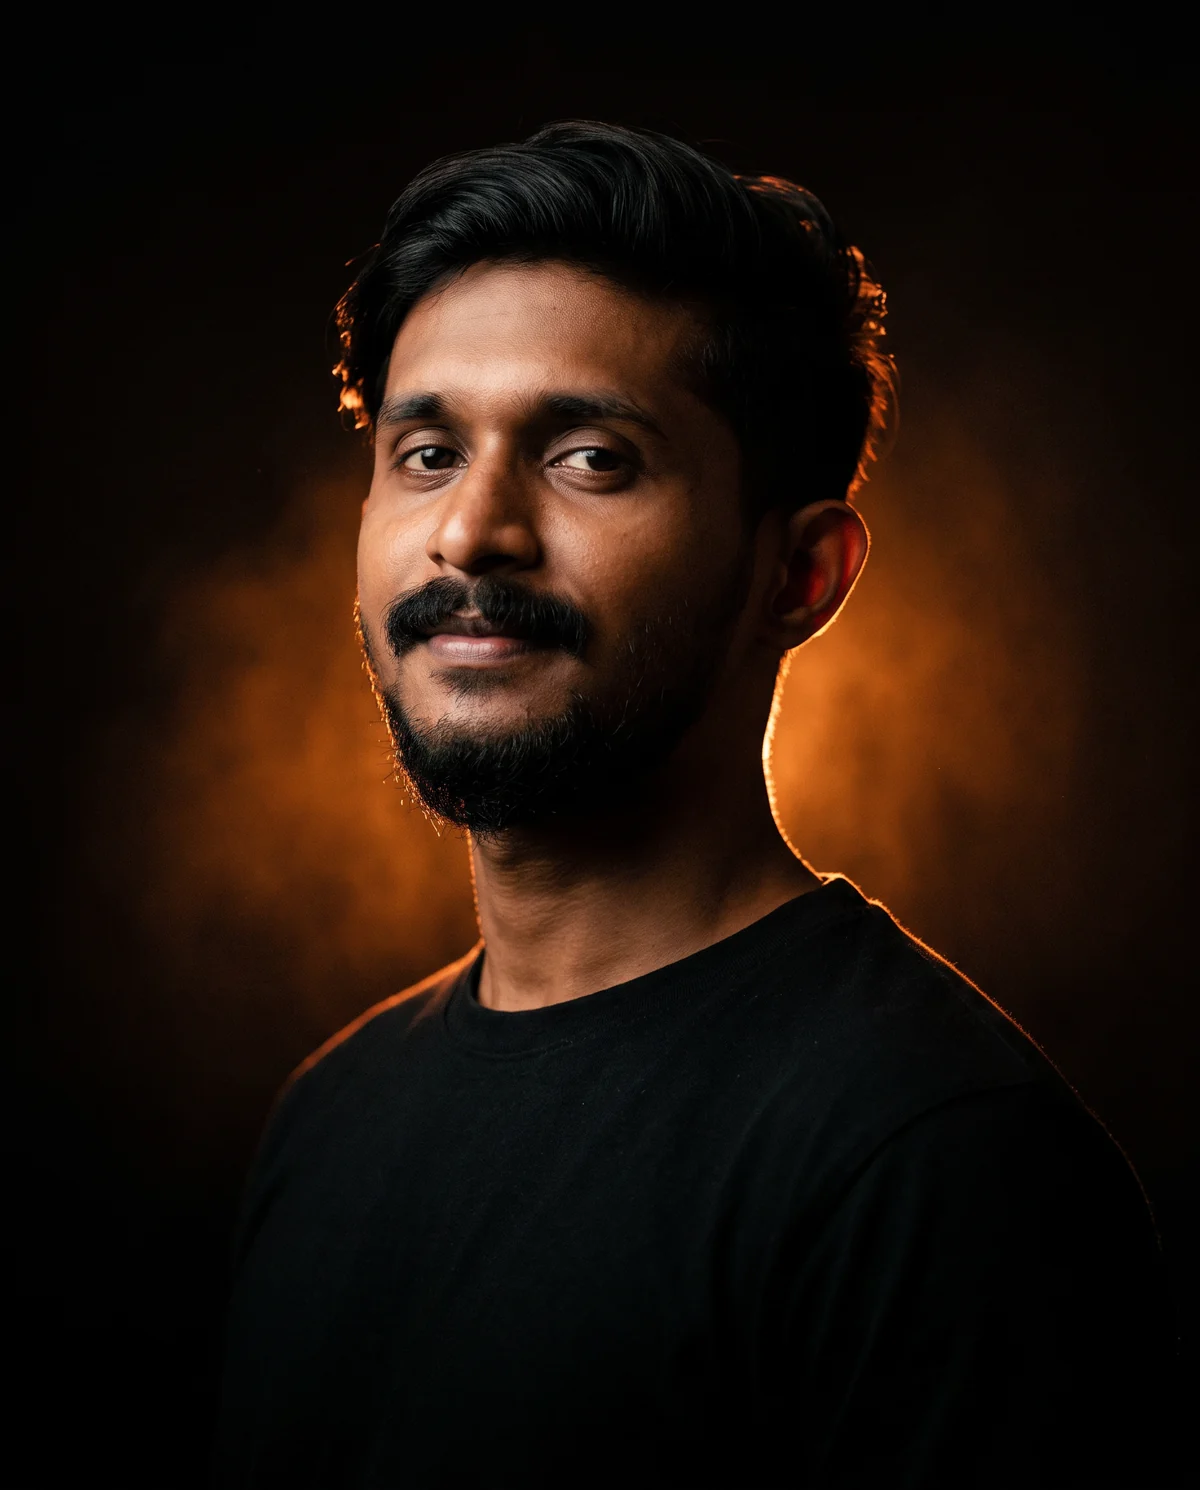
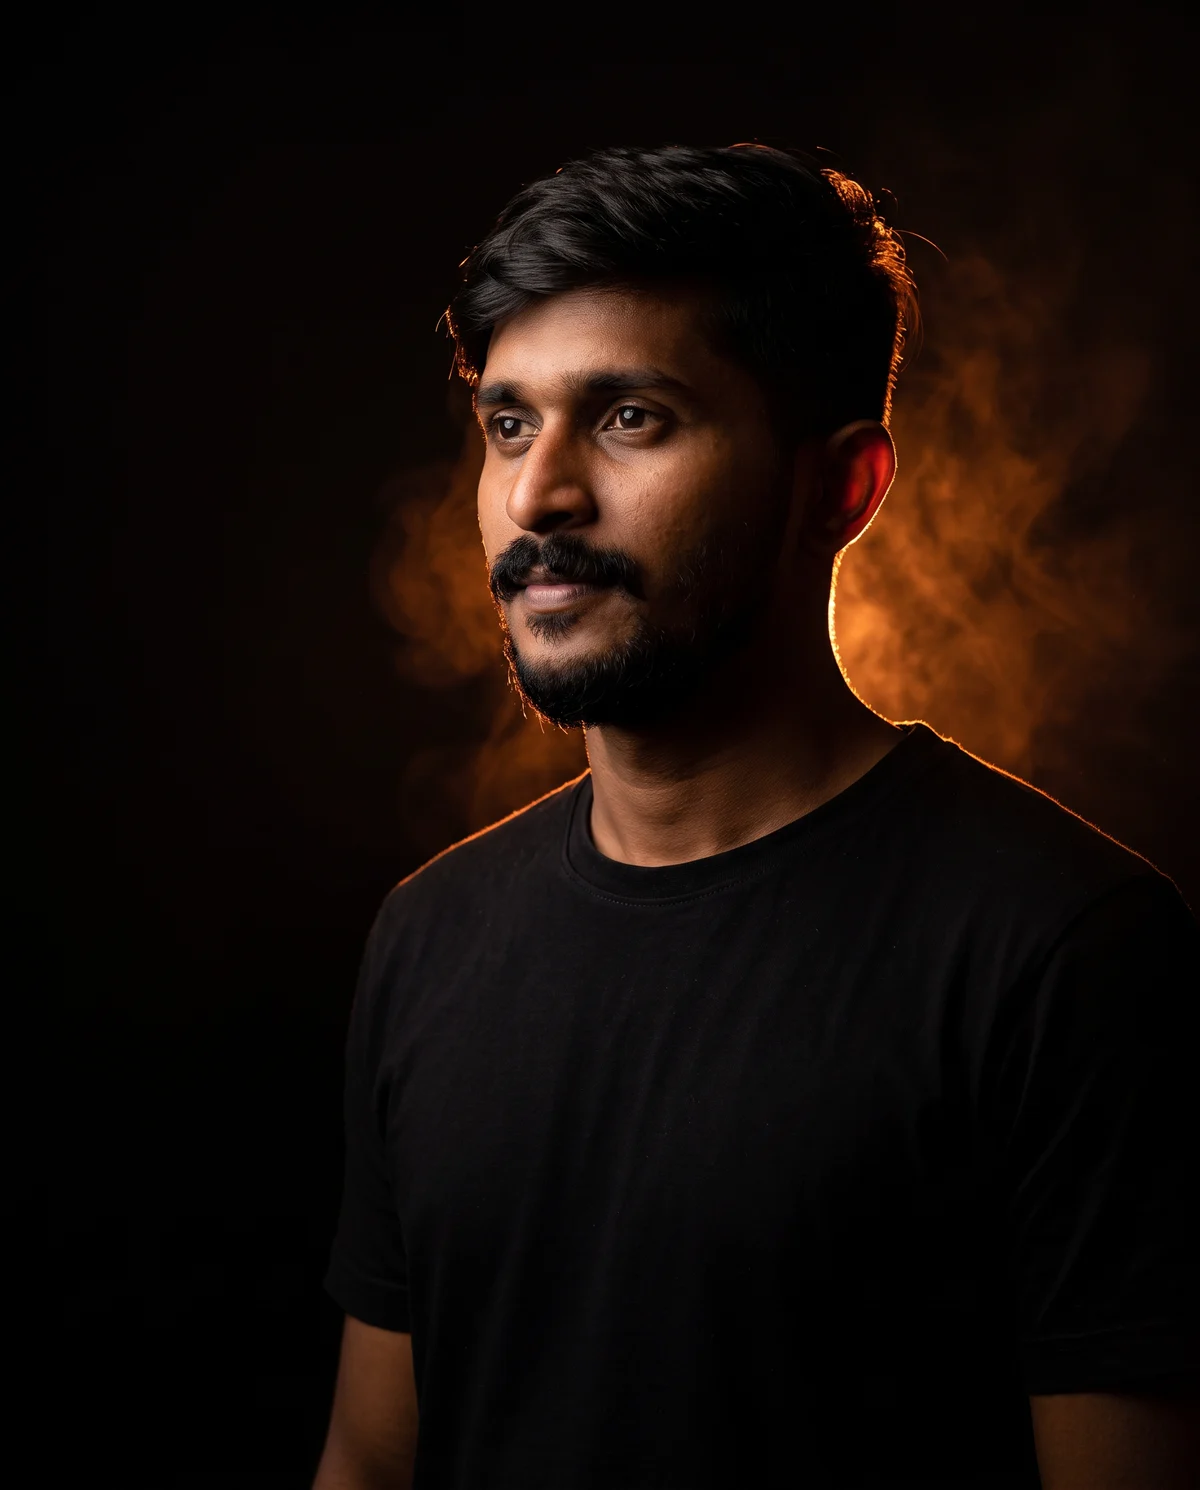
Swap in the side-glance hero portrait
Claude-Session: https://claude.ai/code/session_01DREtDYFmrfMAPiQRNoP9MR

diff --git a/index.html b/index.html
@@ -68,7 +68,7 @@
       <div class="frame" id="frame">
         <i class="shard shard-1"></i><i class="shard shard-2"></i><i class="shard shard-3"></i>
         <i class="hero-glow"></i>
-        <img class="hero-me" src="img/siraj-cine.webp" alt="Portrait of Muhammad Siraj, backlit in orange" width="1200" height="1490" fetchpriority="high">
+        <img class="hero-me" src="img/siraj-cine.webp" alt="Portrait of Muhammad Siraj looking to the side, backlit in orange" width="1200" height="1490" fetchpriority="high">
         <div class="hero-copy">
           <p class="eyebrow">Flutter developer • Kochi, India</p>
           <h1 class="name" aria-label="Siraj"><span>S</span><span>I</span><span>R</span><span>A</span><span>J</span></h1>
